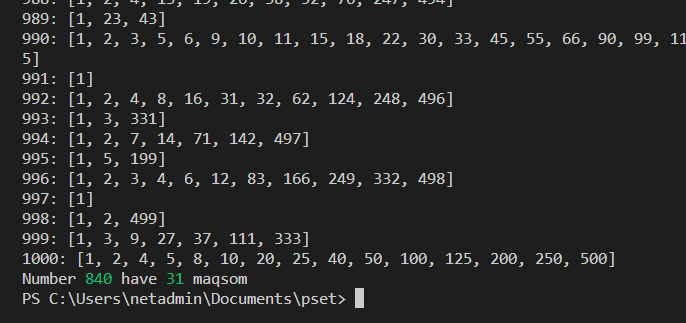
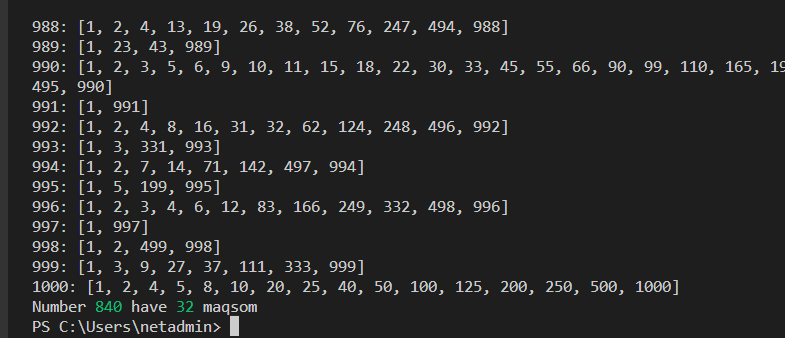
fix little bug in #67 question
in get_factor function  did not return correct value 
for example each number at least can be divide to 1 and it self !
but this function just return 1 and not number it self

Changed region(s): [[0.0306, 0.0, 1.0, 1.0], [0.398, 0.0, 0.6735, 0.031], [0.2449, 0.0, 0.3673, 0.031]]

diff --git a/Medium-Questions/67-prime-2-n/Python/main.py b/Medium-Questions/67-prime-2-n/Python/main.py
@@ -9,6 +9,13 @@ def get_maqsom(n):
     for i in range(1, int(round(n / 2)+ 1)):
         if n % i == 0:
             maqsom.append(i)
+
+    if 1 not in maqsom:
+        maqsom.append(1)
+    
+    if n not in maqsom:
+        maqsom.append(n)
+    
     return maqsom
 
 
